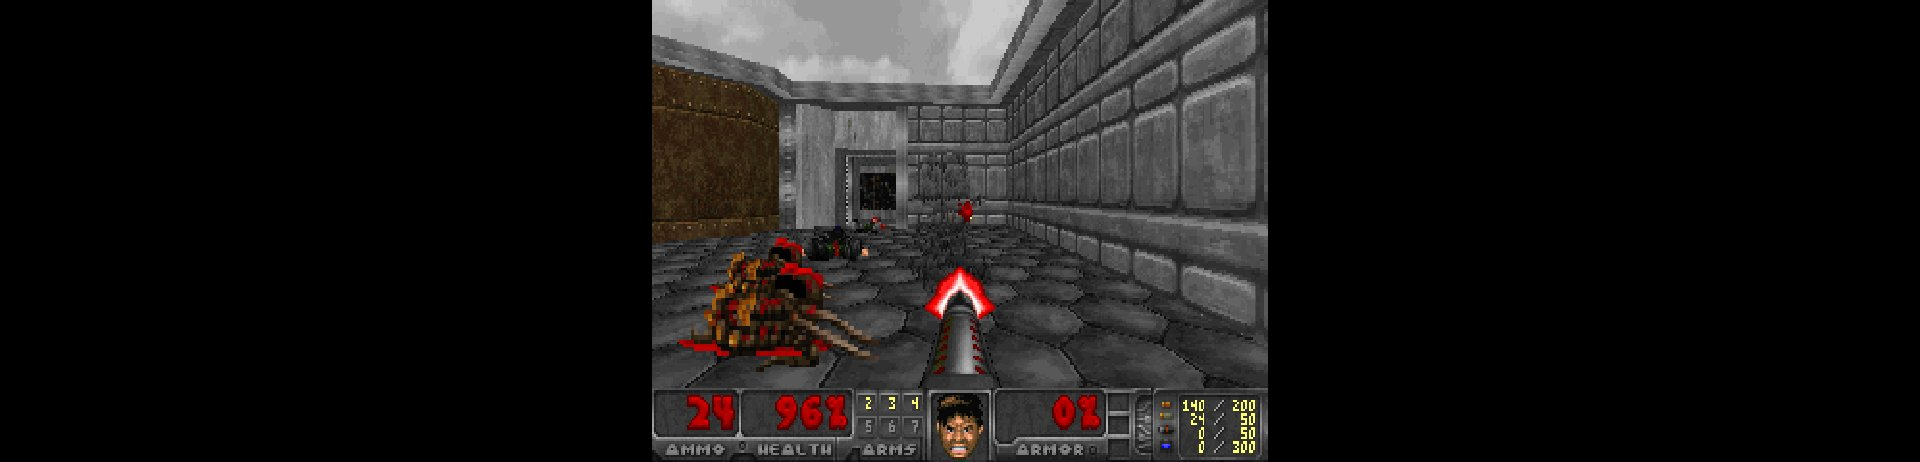
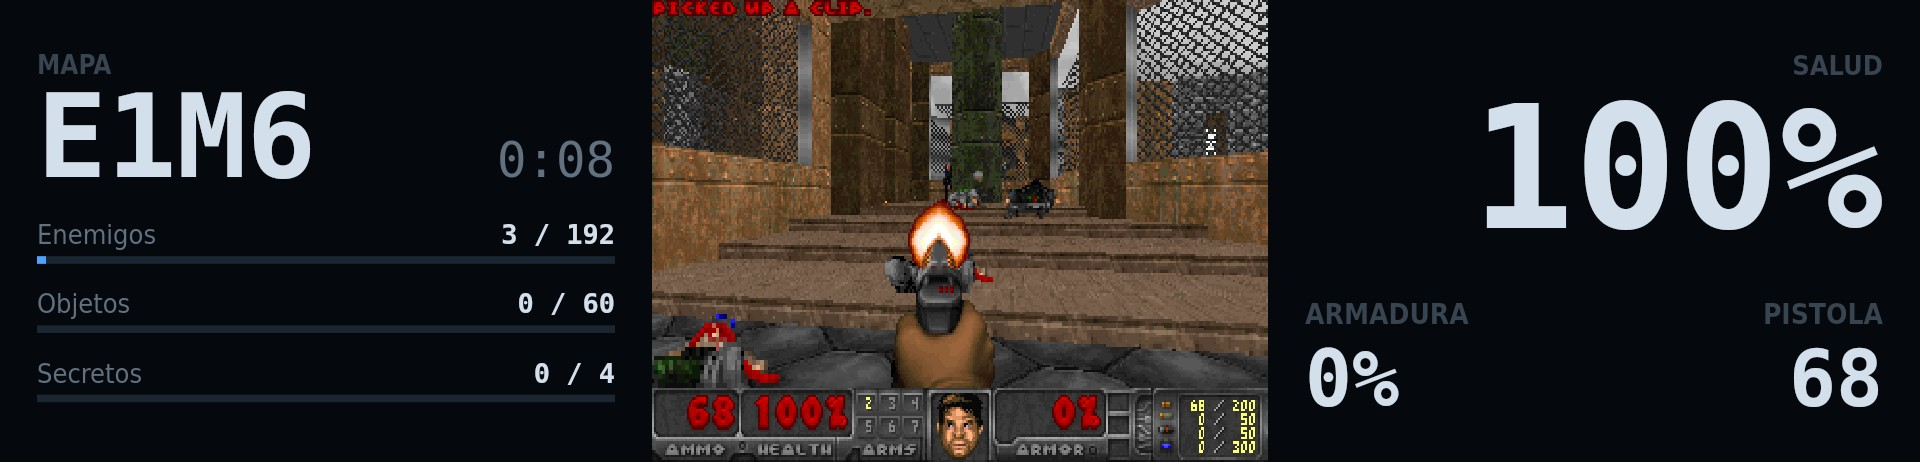
feat: the game's numbers beside it on a wide panel (0.2.0)
On a bar-shaped panel the game takes the middle and the sides were black.
Now, in the panel's theme: left, the map, the level's time and kills,
items and secrets with bars; right, health (amber at 50, red at 25),
armour, the weapon and its ammo. Outside a level, the game's name. Only
when each side has 220 px (1920×462, 1280×480); `showStats` turns it off.
In five languages. The plugin declares its languages.

diff --git a/src/hud.ts b/src/hud.ts
@@ -1,0 +1,150 @@
+/**
+ * What the game is doing, beside it: on a bar-shaped panel the game takes the
+ * middle third and the sides were black. Left, where it is (the map, the
+ * level's time, kills, items and secrets found); right, how it goes (health,
+ * armour, the weapon and its ammo). In the panel's theme, from the engine's
+ * own numbers (STATE). Outside a level (title, intermission, finale) only
+ * the game's name.
+ */
+import type { Graphics, Theme } from '@kiosko/sdk';
+import { STATE } from './protocol.ts';
+
+type Box = { x: number; y: number; w: number; h: number };
+type Say = (texts: { en: string } & Record<string, string>) => string;
+
+/** gamestate_t (doomdef.h). */
+const GS_LEVEL = 0;
+/** GameMode_t (d_mode.h): commercial (Doom II and Freedoom Phase 2) names maps MAPxx. */
+const COMMERCIAL = 2;
+
+/** Narrower sides than this get nothing: the game alone. */
+export const MIN_SIDE = 220;
+
+/** The two boxes beside the game on a `width × height` canvas, or null when there's no room. */
+export function sides(width: number, height: number, game: Box): { left: Box; right: Box } | null {
+  const pad = Math.round(Math.min(height * 0.08, game.x * 0.08));
+  const w = game.x - pad * 2;
+  if (w < MIN_SIDE) return null;
+  return {
+    left: { x: pad, y: pad, w, h: height - pad * 2 },
+    right: { x: game.x + game.w + pad, y: pad, w, h: height - pad * 2 },
+  };
+}
+
+export const mapName = (s: number[]) =>
+  s[STATE.gamemode] === COMMERCIAL ? `MAP${String(s[STATE.map]).padStart(2, '0')}` : `E${s[STATE.episode]}M${s[STATE.map]}`;
+
+/** Level time, from tics (35 a second): "1:05". */
+export const levelTime = (tics: number) => {
+  const s = Math.floor(Math.max(0, tics) / 35);
+  return `${Math.floor(s / 60)}:${String(s % 60).padStart(2, '0')}`;
+};
+
+const WEAPONS: ({ en: string } & Record<string, string>)[] = [
+  { en: 'Fist', es: 'Puño', de: 'Faust', 'zh-Hans': '拳头', 'zh-Hant': '拳頭' },
+  { en: 'Pistol', es: 'Pistola', de: 'Pistole', 'zh-Hans': '手枪', 'zh-Hant': '手槍' },
+  { en: 'Shotgun', es: 'Escopeta', de: 'Schrotflinte', 'zh-Hans': '霰弹枪', 'zh-Hant': '霰彈槍' },
+  { en: 'Chaingun', es: 'Ametralladora', de: 'Maschinengewehr', 'zh-Hans': '机枪', 'zh-Hant': '機槍' },
+  { en: 'Rocket launcher', es: 'Lanzacohetes', de: 'Raketenwerfer', 'zh-Hans': '火箭筒', 'zh-Hant': '火箭筒' },
+  { en: 'Plasma rifle', es: 'Rifle de plasma', de: 'Plasmagewehr', 'zh-Hans': '等离子枪', 'zh-Hant': '電漿槍' },
+  { en: 'BFG', es: 'BFG', de: 'BFG', 'zh-Hans': 'BFG', 'zh-Hant': 'BFG' },
+  { en: 'Chainsaw', es: 'Motosierra', de: 'Kettensäge', 'zh-Hans': '电锯', 'zh-Hant': '電鋸' },
+  { en: 'Super shotgun', es: 'Escopeta doble', de: 'Doppelflinte', 'zh-Hans': '双管霰弹枪', 'zh-Hant': '雙管霰彈槍' },
+];
+
+const font = (size: number, family: string) => `${Math.round(size)}px "${family}"`;
+
+function label(g: Graphics, theme: Theme, text: string, x: number, y: number, size: number, align: 'left' | 'right' | 'center' = 'left'): void {
+  g.font = font(size, theme.fonts.sansBold);
+  g.fillStyle = theme.colors.inkFaint;
+  g.textAlign = align;
+  g.fillText(text.toUpperCase(), x, y);
+}
+
+/** A row: name, "n / total" and a bar that fills as they are found. */
+function progress(g: Graphics, theme: Theme, name: string, n: number, total: number, b: Box): void {
+  const c = theme.colors;
+  const size = b.h * 0.42;
+  g.textBaseline = 'alphabetic';
+  g.font = font(size, theme.fonts.sans);
+  g.fillStyle = c.inkDim;
+  g.textAlign = 'left';
+  g.fillText(name, b.x, b.y + size);
+  g.font = font(size, theme.fonts.monoBold);
+  g.fillStyle = c.ink;
+  g.textAlign = 'right';
+  g.fillText(total > 0 ? `${n} / ${total}` : `${n}`, b.x + b.w, b.y + size);
+  const barY = b.y + size * 1.45;
+  const barH = Math.max(3, b.h * 0.12);
+  g.fillStyle = c.surfaceEdge;
+  g.fillRect(b.x, barY, b.w, barH);
+  if (total > 0) {
+    g.fillStyle = n >= total ? c.ok : c.accent;
+    g.fillRect(b.x, barY, (b.w * Math.min(n, total)) / total, barH);
+  }
+}
+
+/** Paints both sides. `wad` names the game outside a level. */
+export function drawHud(g: Graphics, theme: Theme, say: Say, state: number[], box: { left: Box; right: Box }, wad: string): void {
+  const c = theme.colors;
+  const { left: L, right: R } = box;
+  g.save();
+  g.textBaseline = 'alphabetic';
+  if (state[STATE.gamestate] !== GS_LEVEL) {
+    // Title screens, intermission, finale: just what is playing.
+    const size = L.h * 0.09;
+    label(g, theme, say({ en: 'Now playing', es: 'En pantalla', de: 'Läuft gerade', 'zh-Hans': '正在播放', 'zh-Hant': '正在播放' }), L.x, L.y + L.h / 2 - size * 0.6, size * 0.6);
+    g.font = font(size, theme.fonts.sansBold);
+    g.fillStyle = c.inkDim;
+    g.textAlign = 'left';
+    g.fillText(wad, L.x, L.y + L.h / 2 + size * 0.7, L.w);
+    g.restore();
+    return;
+  }
+
+  // Left: where.
+  const big = L.h * 0.3;
+  label(g, theme, say({ en: 'Map', es: 'Mapa', de: 'Karte', 'zh-Hans': '地图', 'zh-Hant': '地圖' }), L.x, L.y + big * 0.32, big * 0.22);
+  g.font = font(big, theme.fonts.monoBold);
+  g.fillStyle = c.ink;
+  g.textAlign = 'left';
+  g.fillText(mapName(state), L.x, L.y + big * 1.2);
+  g.font = font(big * 0.42, theme.fonts.mono);
+  g.fillStyle = c.inkDim;
+  g.textAlign = 'right';
+  g.fillText(levelTime(state[STATE.leveltime]!), L.x + L.w, L.y + big * 1.2);
+  const rows: [string, number, number][] = [
+    [say({ en: 'Kills', es: 'Enemigos', de: 'Gegner', 'zh-Hans': '击杀', 'zh-Hant': '擊殺' }), state[STATE.kills]!, state[STATE.totalKills]!],
+    [say({ en: 'Items', es: 'Objetos', de: 'Gegenstände', 'zh-Hans': '物品', 'zh-Hant': '物品' }), state[STATE.items]!, state[STATE.totalItems]!],
+    [say({ en: 'Secrets', es: 'Secretos', de: 'Geheimnisse', 'zh-Hans': '秘密', 'zh-Hant': '秘密' }), state[STATE.secrets]!, state[STATE.totalSecrets]!],
+  ];
+  const top = L.y + big * 1.55;
+  const rowH = (L.y + L.h - top) / rows.length;
+  rows.forEach(([name, n, total], i) => progress(g, theme, name, n, total, { x: L.x, y: top + rowH * i, w: L.w, h: rowH * 0.92 }));
+
+  // Right: how it goes.
+  const health = state[STATE.health]!;
+  const healthColor = health <= 25 ? c.alert : health <= 50 ? c.warn : c.ink;
+  const hs = R.h * 0.44;
+  label(g, theme, say({ en: 'Health', es: 'Salud', de: 'Gesundheit', 'zh-Hans': '生命', 'zh-Hant': '生命' }), R.x + R.w, R.y + hs * 0.22, hs * 0.16, 'right');
+  g.font = font(hs, theme.fonts.monoBold);
+  g.fillStyle = healthColor;
+  g.textAlign = 'right';
+  g.fillText(`${health}%`, R.x + R.w, R.y + hs * 1.12);
+  const small = R.h * 0.2;
+  const y2 = R.y + R.h - small * 0.25;
+  // Armour, bottom left; the weapon and its ammo, bottom right.
+  label(g, theme, say({ en: 'Armour', es: 'Armadura', de: 'Rüstung', 'zh-Hans': '护甲', 'zh-Hant': '護甲' }), R.x, y2 - small * 1.05, small * 0.36);
+  g.font = font(small, theme.fonts.monoBold);
+  g.fillStyle = c.ink;
+  g.textAlign = 'left';
+  g.fillText(`${state[STATE.armor]}%`, R.x, y2);
+  const weapon = WEAPONS[state[STATE.weapon]!];
+  const ammo = state[STATE.ammo]!;
+  if (weapon) label(g, theme, say(weapon), R.x + R.w, y2 - small * 1.05, small * 0.36, 'right');
+  g.font = font(small, theme.fonts.monoBold);
+  g.fillStyle = ammo >= 0 && ammo <= 10 ? c.warn : c.ink;
+  g.textAlign = 'right';
+  g.fillText(ammo >= 0 ? String(ammo) : '∞', R.x + R.w, y2);
+  g.restore();
+}

diff --git a/src/doom.test.ts b/src/doom.test.ts
@@ -10,6 +10,7 @@ import { createBaseContext, themeById } from '@kiosko/sdk';
 import { Engine } from './engine.ts';
 import plugin, { attract, viewport } from './index.ts';
 import { STATE } from './protocol.ts';
+import { drawHud, levelTime, mapName, sides } from './hud.ts';
 import { FREEDOOM, downloadDone, freedoom, freedoomDir, ownWad, unzip } from './wad.ts';
 
 /** A real IWAD to run the engine with (freedoom1.wad, doom1.wad…); the engine tests skip without one. */
@@ -142,7 +143,7 @@ test('the interlude paints the game in the middle of a wide panel, black around 
   const height = 462;
   const logs: string[] = [];
   const base = createBaseContext({ now: Date.now(), log: (m) => logs.push(m), dataDir: tmp() });
-  const player = await attract.prepare({ ...base, options: { wad: WAD! }, width, height, seed: 1, theme: themeById(undefined), canvas: { createCanvas, loadImage } as never, sources: {} });
+  const player = await attract.prepare({ ...base, options: { wad: WAD!, showStats: false }, width, height, seed: 1, theme: themeById(undefined), canvas: { createCanvas, loadImage } as never, sources: {} });
   assert.ok(player, logs.join('\n'));
   const canvas = createCanvas(width, height);
   const g = canvas.getContext('2d');
@@ -160,4 +161,44 @@ test('the plugin: one interlude, GPL, honest about what it does', () => {
   assert.equal(plugin.license, 'GPL-2.0-or-later');
   assert.ok(plugin.permissions!.network!.includes('github.com'));
   assert.ok(plugin.permissions!.exec!.includes('node'));
+});
+
+test('HUD: room beside the game on a bar, none on a square panel', () => {
+  const bar = sides(1920, 462, viewport(1920, 462));
+  assert.ok(bar && bar.left.w >= 220 && bar.left.x + bar.left.w < 652 && bar.right.x > 652 + 616);
+  assert.equal(sides(480, 480, viewport(480, 480)), null);
+  // 1280×480 (Trofeo Vision 6.86″): 320 px a side, 268 once padded: room enough.
+  assert.equal(sides(1280, 480, viewport(1280, 480))?.left.w, 268);
+  // 854×480 (Fan Bracket Vision-1): 107 px a side, no.
+  assert.equal(sides(854, 480, viewport(854, 480)), null);
+});
+
+test('HUD: map names and level time as the game writes them', () => {
+  const s = Array(16).fill(0);
+  s[STATE.episode] = 1; s[STATE.map] = 6; s[STATE.gamemode] = 3;
+  assert.equal(mapName(s), 'E1M6');
+  s[STATE.gamemode] = 2; s[STATE.map] = 7;
+  assert.equal(mapName(s), 'MAP07');
+  assert.equal(levelTime(35 * 65), '1:05');
+});
+
+test('HUD: paints its numbers in the panel’s theme, inside its sides', () => {
+  const s = Array(16).fill(0);
+  Object.assign(s, { [STATE.gamestate]: 0, [STATE.episode]: 1, [STATE.map]: 6, [STATE.leveltime]: 35 * 83, [STATE.health]: 20, [STATE.armor]: 50, [STATE.weapon]: 2, [STATE.ammo]: 8, [STATE.kills]: 11, [STATE.totalKills]: 30, [STATE.items]: 5, [STATE.totalItems]: 60, [STATE.secrets]: 1, [STATE.totalSecrets]: 4 });
+  const canvas = createCanvas(1920, 462);
+  const g = canvas.getContext('2d');
+  const texts: string[] = [];
+  const fill = g.fillText.bind(g);
+  (g as unknown as { fillText: typeof g.fillText }).fillText = (t: string, x: number, y: number, m?: number) => (texts.push(t), fill(t, x, y, m));
+  const theme = themeById(undefined);
+  const say = (x: { en: string } & Record<string, string>) => x.en;
+  drawHud(g, theme, say, s, sides(1920, 462, viewport(1920, 462))!, 'Freedoom');
+  for (const t of ['E1M6', '1:23', '11 / 30', '5 / 60', '1 / 4', '20%', '50%', '8', 'SHOTGUN']) assert.ok(texts.includes(t), `${t} in ${texts.join(' | ')}`);
+  // Nothing on the game's third.
+  const middle = g.getImageData(652, 0, 616, 462).data;
+  assert.ok(middle.every((v, i) => i % 4 === 3 || v === 0), 'the game area is left alone');
+  s[STATE.gamestate] = 3;
+  texts.length = 0;
+  drawHud(g, theme, say, s, sides(1920, 462, viewport(1920, 462))!, 'Freedoom 0.13.0');
+  assert.ok(texts.includes('Freedoom 0.13.0') && !texts.includes('E1M6'));
 });

diff --git a/src/index.ts b/src/index.ts
@@ -8,6 +8,7 @@
  */
 import { defineInterlude, definePlugin, t } from '@kiosko/sdk';
 import { Engine } from './engine.ts';
+import { drawHud, sides } from './hud.ts';
 import { freedoom, ownWad } from './wad.ts';
 
 /** The game's pixels are not square: 320×200 is shown at 4:3. */
@@ -50,6 +51,17 @@ export const attract = defineInterlude({
       },
       placeholder: '~/games/doom1.wad',
     }),
+    showStats: t.boolean({
+      default: true,
+      label: { en: 'Show the game’s numbers beside it', es: 'Mostrar los datos de la partida a los lados', de: 'Spielwerte daneben zeigen', 'zh-Hans': '在两侧显示游戏数据', 'zh-Hant': '在兩側顯示遊戲資料' },
+      help: {
+        en: 'On a wide panel: the map, time, kills, items and secrets on the left; health, armour and ammo on the right.',
+        es: 'En un panel ancho: el mapa, el tiempo, los enemigos, objetos y secretos a la izquierda; la salud, la armadura y la munición a la derecha.',
+        de: 'Auf einem breiten Panel: Karte, Zeit, Gegner, Gegenstände und Geheimnisse links; Gesundheit, Rüstung und Munition rechts.',
+        'zh-Hans': '在宽屏面板上：左侧显示地图、时间、击杀、物品和秘密；右侧显示生命、护甲和弹药。',
+        'zh-Hant': '在寬螢幕面板上：左側顯示地圖、時間、擊殺、物品與秘密；右側顯示生命、護甲與彈藥。',
+      },
+    }),
   }),
   async prepare(ctx) {
     const say = (msg: string) => ctx.log(`doom: ${msg}`);
@@ -65,6 +77,7 @@ export const attract = defineInterlude({
     const sg = small.getContext('2d');
     const image = sg.createImageData(engine.width, engine.height);
     const view = viewport(ctx.width, ctx.height);
+    const hud = ctx.options.showStats ? sides(ctx.width, ctx.height, view) : null;
     let t0 = 0;
     return {
       frames: MAX_FRAMES,
@@ -75,10 +88,11 @@ export const attract = defineInterlude({
         const f = await engine.frame(Date.now() - t0);
         image.data.set(f.pixels);
         sg.putImageData(image, 0, 0);
-        g.fillStyle = '#000';
+        g.fillStyle = hud ? ctx.theme.colors.bg : '#000';
         g.fillRect(0, 0, ctx.width, ctx.height);
         g.imageSmoothingEnabled = false;
         g.drawImage(small, view.x, view.y, view.w, view.h);
+        if (hud) drawHud(g, ctx.theme, ctx.t, f.state, hud, wad.name);
         if (i >= MAX_FRAMES - 1) engine.close();
       },
     };
@@ -88,7 +102,7 @@ export const attract = defineInterlude({
 export default definePlugin({
   id: 'doom',
   name: { en: 'Doom', es: 'Doom', de: 'Doom', 'zh-Hans': 'Doom', 'zh-Hant': 'Doom' },
-  version: '0.1.0',
+  version: '0.2.0',
   description: {
     en: 'Doom on your panel: the game plays its own demos as an interlude. The engine (doomgeneric, GPL) runs in a process of its own; the levels are Freedoom unless you bring your own IWAD.',
     es: 'Doom en tu panel: el juego reproduce sus propias demos como interludio. El motor (doomgeneric, GPL) corre en un proceso propio; los niveles son de Freedoom salvo que pongas tu propio IWAD.',
@@ -101,6 +115,7 @@ export default definePlugin({
   homepage: 'https://github.com/kiosko-lcd/kiosko-plugin-doom#readme',
   repository: 'https://github.com/kiosko-lcd/kiosko-plugin-doom',
   sdk: '^0.2.0',
+  languages: ['en', 'es', 'de', 'zh-Hant', 'zh-Hans'],
   permissions: {
     network: ['github.com', 'release-assets.githubusercontent.com'],
     exec: ['node'],

diff --git a/README.md b/README.md
@@ -53,12 +53,15 @@ sending the frames.
 ### Doom demos — `doom/attract`
 
 The game plays its own recorded demos between title screens, with no one at
-the controls. The game (320×200, shown at 4:3) is centred on the panel, black
-around it.
+the controls. The game (320×200, shown at 4:3) is centred on the panel. On a
+wide one, the game's numbers go beside it in the panel's theme: the map, the
+level's time, kills, items and secrets on the left; health, armour, the
+weapon and its ammo on the right.
 
 | Option | Type | Default | |
 |---|---|---|---|
 | `wad` | path | `""` | IWAD. A game data file of your own (doom1.wad, DOOM.WAD, DOOM2.WAD…). Empty: Freedoom. |
+| `showStats` | boolean | `true` | The game's numbers beside it, when each side has at least 220 px. |
 
 ## How it works
 
